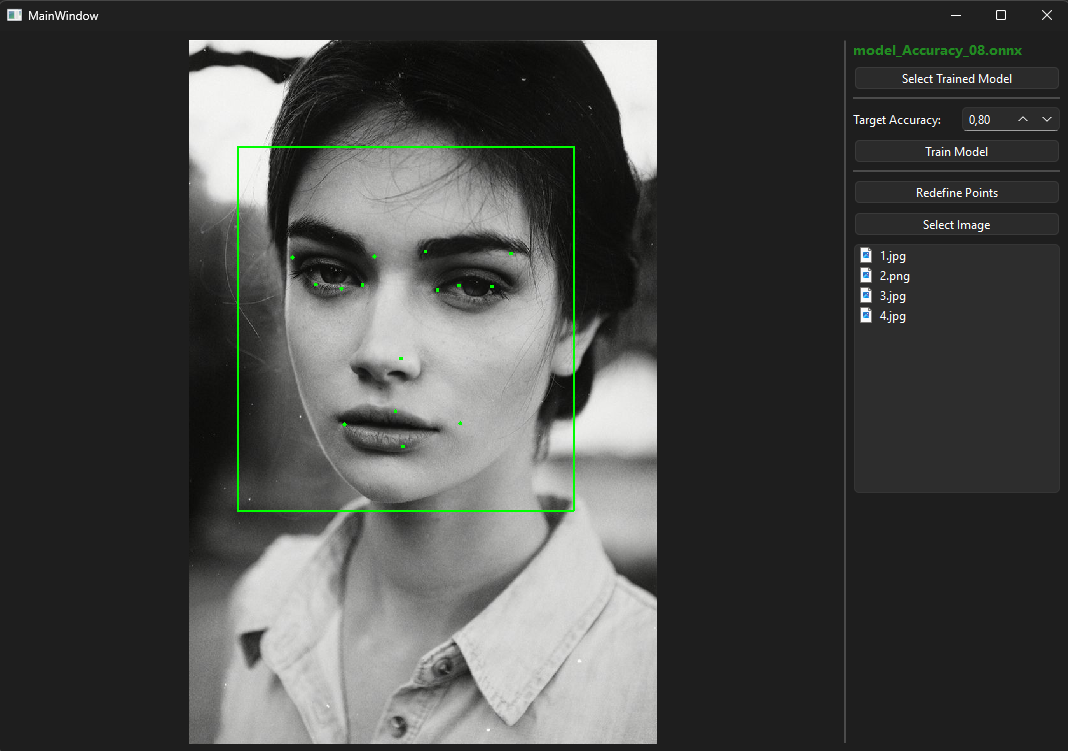
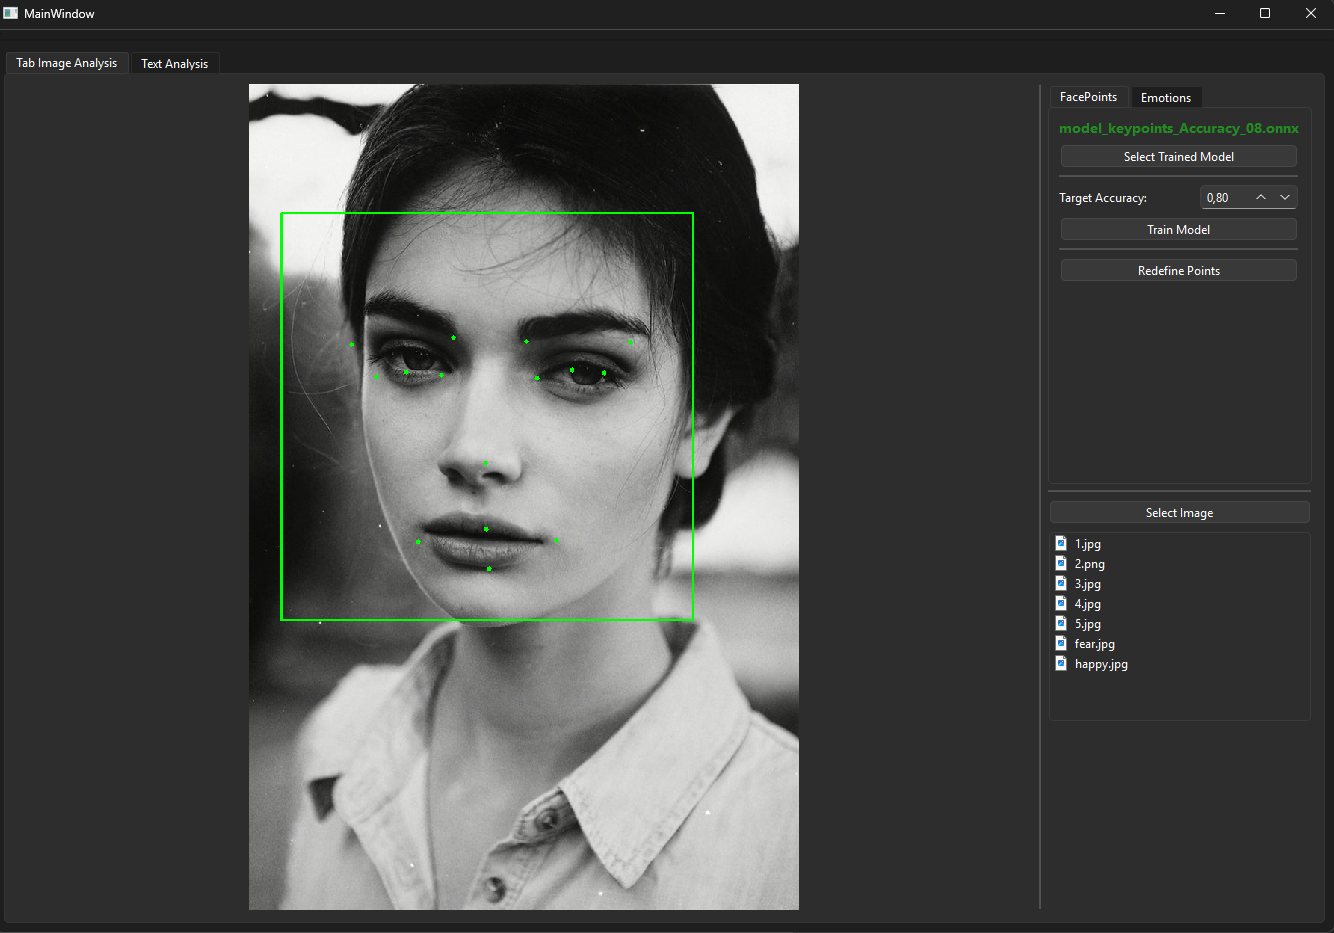
Docs: Update main README with NLP features and new screenshots

diff --git a/README.md b/README.md
@@ -1,20 +1,29 @@
-# Facial Keypoints & Emotion Recognition (C++ / Qt / OpenCV)
+# AI Processing Toolkit: Computer Vision & NLP (C++ / Qt / PyTorch)
 
-Програмний комплекс для автоматичного визначення 15 ключових анатомічних точок на зображенні обличчя людини, а також подальшої класифікації 7 базових емоцій. Проект розроблено в рамках лабораторних робіт з використанням згорткових нейронних мереж (CNN), класичних багатошарових перцептронів (MLP) та алгоритмів комп'ютерного зору.
+Мультимодальний програмний комплекс, розроблений для вирішення задач комп'ютерного зору (аналіз обличчя) та обробки природної мови (класифікація тексту). Проект використовує комбінацію згорткових (CNN), багатошарових (MLP) та рекурентних (RNN/LSTM) нейронних мереж, об'єднаних єдиним кросплатформним графічним інтерфейсом на базі Qt.
 
 ## Особливості проекту
-* **Двоетапний пайплайн (Two-stage Pipeline):** Автоматичний пошук обличчя на фотографії за допомогою каскадів Хаара (OpenCV) з подальшою передачею нормалізованого зображення у нейромережу.
-* **Розпізнавання емоцій за точками (ЗНМ1):** Нейромережевий аналіз міміки, що базується виключно на 30 знайдених координатах ключових точок (із застосуванням Batch Normalization та Dropout для захисту від шуму).
-* **Розпізнавання емоцій за пікселями (ЗНМ2):** Незалежна згорткова нейромережа (CNN), яка класифікує емоції безпосередньо по обрізаному зображенню обличчя (48x48 пікселів).
-* **Вбудований модуль навчання:** Можливість тренувати моделі ЗНМ1 та ЗНМ2 безпосередньо з графічного інтерфейсу C++ (автоматичний запуск Python-скриптів `train_znm1.py` та `train_znm2.py` через `QProcess` із відображенням прогресу).
-* **Кросплатформний GUI:** Зручний користувацький інтерфейс, написаний на фреймворку Qt, із розділенням логіки по вкладках.
+* **Аналіз обличчя (Face Analysis):**
+  * **Двоетапний пайплайн:** Автоматичний пошук обличчя на фотографії за допомогою каскадів Хаара (OpenCV) з подальшою передачею нормалізованого зображення у нейромережу.
+  * **Детекція ключових точок:** Визначення 15 анатомічних точок обличчя (30 координат) за допомогою згорткової нейромережі.
+  * **Розпізнавання емоцій за точками (ЗНМ1):** Нейромережевий аналіз міміки, що базується виключно на знайдених координатах ключових точок.
+  * **Розпізнавання емоцій за пікселями (ЗНМ2):** Незалежна згорткова нейромережа, яка класифікує емоції безпосередньо по обрізаному зображенню обличчя (48x48).
+* **Аналіз тексту (NLP - Text Emotion):**
+  * **Рекурентна нейромережа (LSTM):** Класифікація англомовного тексту на 6 базових емоцій (Joy, Sadness, Anger, Fear, Love, Surprise).
+  * **Динамічна токенізація:** Автоматична генерація та підключення словника (`vocab_rnn.json`) для перетворення тексту у тензорний формат безпосередньо в оперативній пам'яті.
+* **Вбудований модуль навчання:** Можливість тренувати будь-яку з моделей безпосередньо з графічного інтерфейсу C++ (автоматичний запуск Python-скриптів через `QProcess` із відображенням прогресу навчання).
+* **Модульний GUI:** Зручний користувацький інтерфейс, написаний на C++ Qt, із логічним розділенням робочих просторів (Image Analysis / Text Analysis) через вкладки.
 
 ## Скріншоти роботи програми
-![Результат розпізнавання точок 1](screenshots/1.png)
 
-![Результат розпізнавання точок 2](screenshots/2.png)
+**Детекція ключових точок обличчя:**
+![Детекція точок](screenshots/1.png)
 
-![Результат розпізнавання емоцій (ЗНМ1 та ЗНМ2)](screenshots/3.png)
+**Двофакторне розпізнавання емоцій (ЗНМ1 та ЗНМ2):**
+![Розпізнавання емоцій](screenshots/2.png)
+
+**NLP: Розпізнавання емоційного забарвлення тексту (LSTM):**
+![Аналіз тексту](screenshots/3.png)
 
 ---
 
@@ -23,7 +32,7 @@
 1. Перейдіть у розділ **[Releases](../../releases)** збоку на цій сторінці.
 2. Завантажте останній `.zip` архів з програмою.
 3. Розархівуйте його у будь-яку зручну теку.
-4. Запустіть `.exe` файл. Всі необхідні моделі та `.dll` файли вже знаходяться всередині!
+4. Запустіть `.exe` файл. Всі необхідні моделі (`.onnx`), словники (`.json`) та `.dll` файли вже знаходяться всередині!
 
 ---
 
@@ -33,14 +42,14 @@
 * Qt Creator (Qt 6+)
 * CMake та компілятор (MSVC 2022 або MinGW 64-bit)
 * OpenCV (з налаштованими шляхами у `CMakeLists.txt`)
-* Python 3.x (для запуску скриптів навчання)
+* Python 3.10+ (для запуску скриптів навчання)
 
 **Кроки для розгортання:**
 1. Клонуйте репозиторій: `git clone https://github.com/Ваш_Нік/Ваш_Репозиторій.git`
-2. Для роботи з даними або перенавчання моделі встановіть Python-залежності:
-   `pip install opencv-python pandas numpy torch torchvision`
+2. Встановіть необхідні Python-залежності для роботи з нейромережами та даними:
+   `pip install opencv-python pandas numpy torch torchvision datasets`
 3. Відкрийте файл `CMakeLists.txt` через Qt Creator.
-4. Переконайтеся, що файли навчених моделей (`.onnx`), `haarcascade_frontalface_default.xml` та Python-скрипти знаходяться у робочій директорії збірки (або скопіюйте їх туди вручну).
+4. Переконайтеся, що файли навчених моделей (`.onnx`), `vocab_rnn.json`, `haarcascade_frontalface_default.xml` та Python-скрипти знаходяться у робочій директорії збірки (або скопіюйте їх туди вручну).
 5. Зберіть проект у режимі **Release** або **Debug**.
 
-> **Примітка:** Інструменти для роботи з датасетом (парсинг, злиття, ручна розмітка, генерація вибірки емоцій) знаходяться в окремій теці `dataset_tools`. Детальна інструкція до них описана у локальному README файлі цієї теки.
+> **Примітка:** Інструменти для роботи з датасетами (парсинг, злиття, ручна розмітка, генерація вибірки емоцій, завантаження текстових NLP датасетів) знаходяться в окремій теці `dataset_tools`. Детальна інструкція до них описана у локальному `README.md` файлі цієї теки.
